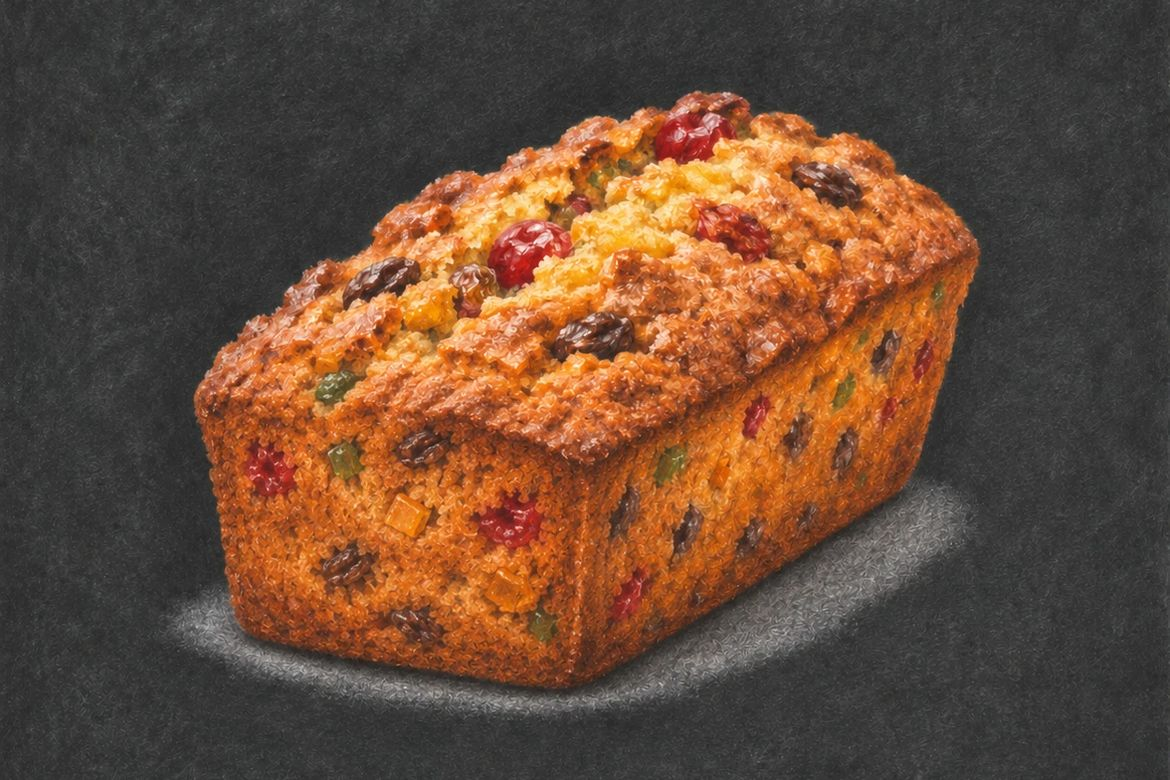
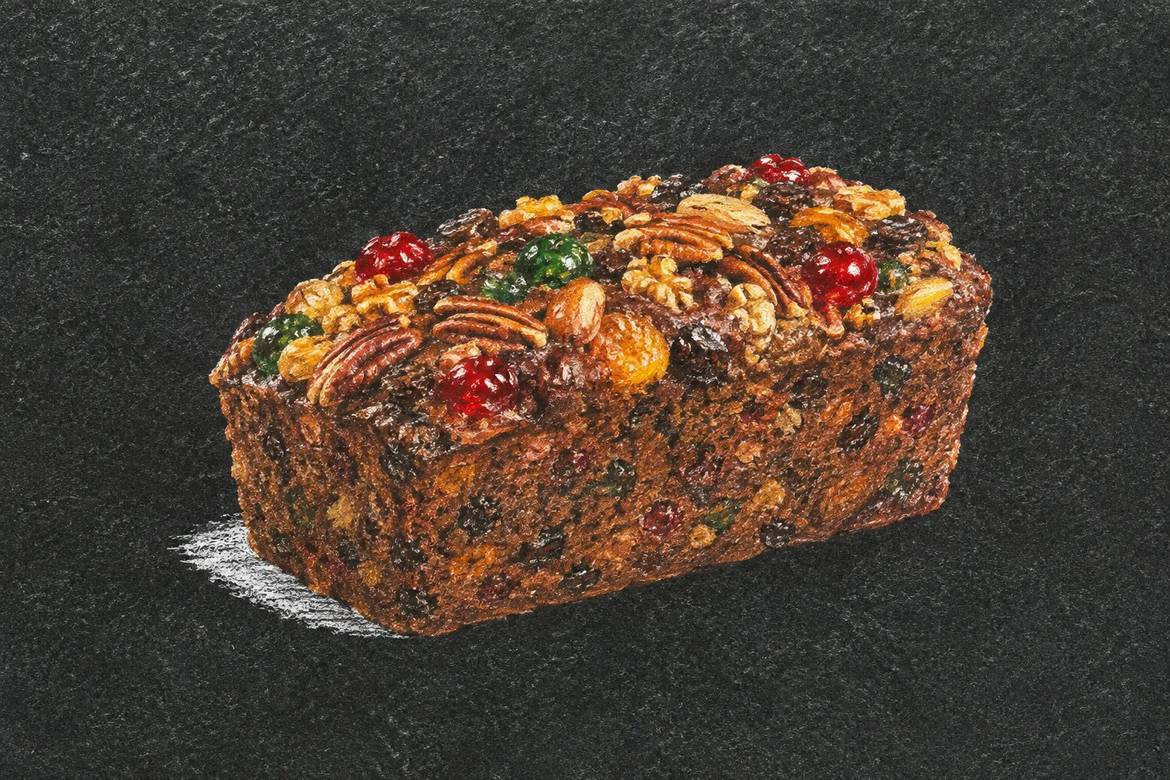
Chef's answers: first pickup date, contact email, new photo
- first_pickup_date setting: no collections before it (1 Dec), even
  when the 14-day lead time would allow earlier.
- contact_email setting: customers are told to email with questions
  instead of calling; used in the customer email and page errors.
- New temporary fruitcake photo.

Claude-Session: https://claude.ai/code/session_01RBCCUDBWDZaHzatyL5mJ5u

diff --git a/web/app.js b/web/app.js
@@ -5,8 +5,9 @@
   var CONFIG = {
     // Apps Script web app URL (Deploy > Manage deployments). Stays the same across new versions.
     API_URL: 'https://script.google.com/macros/s/AKfycbx6IzIM80uFVI_BOEOsq09xjYxFARJAM1SCMC4KeM_Jhx2OrWGX0_FhOQY1UeRMtJCZ_g/exec',
-    // TBD: shop phone number, shown if the order system cannot be reached.
+    // Shown if the order system cannot be reached (the sheet's values are used once loaded).
     SHOP_PHONE: '',
+    CONTACT_EMAIL: '', // TBD: address customers can email with questions
     REQUEST_TIMEOUT_MS: 20000
   };
 
@@ -69,6 +70,14 @@
   }
 
   function phone() { return (state.config && state.config.shop_phone) || CONFIG.SHOP_PHONE; }
+  function contactEmail() { return (state.config && state.config.contact_email) || CONFIG.CONTACT_EMAIL; }
+
+  /** ", or email us at x" / ", or call us on x" / "" */
+  function contactText() {
+    if (contactEmail()) return ', or email us at ' + contactEmail();
+    if (phone()) return ', or call us on ' + phone();
+    return '';
+  }
 
   /* ---------- Preview mode (until the Apps Script URL is set) ---------- */
 
@@ -204,12 +213,15 @@
       state.step = 0;
     }
     if (which === 'error') {
-      var p = phone();
-      document.querySelectorAll('.js-phone-sentence').forEach(function (n) { n.hidden = !p; });
-      document.querySelectorAll('.js-phone-link').forEach(function (a) {
-        a.textContent = p;
-        a.href = 'tel:' + p.replace(/[^\d+]/g, '');
-      });
+      var box = $('error-contact');
+      box.textContent = '';
+      if (contactEmail()) {
+        box.appendChild(document.createTextNode(', or email us at '));
+        box.appendChild(el('a', { href: 'mailto:' + contactEmail(), text: contactEmail() }));
+      } else if (phone()) {
+        box.appendChild(document.createTextNode(', or call us on '));
+        box.appendChild(el('a', { href: 'tel:' + phone().replace(/[^\d+]/g, ''), text: phone() }));
+      }
     }
     var h = which && $('state-' + which).querySelector('.heading');
     if (h) h.focus();
@@ -516,13 +528,13 @@
         var fid = fieldIdFor(res.field);
         if (fid) $(fid).setAttribute('aria-invalid', 'true');
       }
-      if (code === 'server_error' && phone()) msg += ' Please try again, or call us on ' + phone() + '.';
+      if (code === 'server_error' && contactText()) msg += ' Please try again' + contactText() + '.';
       showSubmitError(msg);
     }).catch(function () {
       setSubmitting(false);
       showSubmitError('We could not reach our order system, so we can’t be sure your order went through. ' +
         'Please check your email for a confirmation before trying again' +
-        (phone() ? ', or call us on ' + phone() : '') + '.');
+        contactText() + '.');
     });
   }
 

diff --git a/web/index.html b/web/index.html
@@ -9,7 +9,7 @@
   <link rel="preconnect" href="https://fonts.googleapis.com">
   <link rel="preconnect" href="https://fonts.gstatic.com" crossorigin>
   <link href="https://fonts.googleapis.com/css2?family=Josefin+Sans:wght@600&family=Poppins:wght@400;500;600&display=swap" rel="stylesheet">
-  <link rel="stylesheet" href="styles.css?v=8">
+  <link rel="stylesheet" href="styles.css?v=9">
 </head>
 <body>
   <a class="skip-link" href="#main">Skip to content</a>
@@ -38,7 +38,7 @@
 
       <section id="state-error" class="state" hidden>
         <h1 class="heading" tabindex="-1">We can’t load the order form right now</h1>
-        <p>Please try again in a few minutes<span class="js-phone-sentence">, or call the shop on <a class="js-phone-link" href="#"></a> to order</span>.</p>
+        <p>Please try again in a few minutes<span id="error-contact"></span>.</p>
         <button type="button" class="btn btn-secondary" id="retry">Try again</button>
       </section>
 
@@ -52,7 +52,7 @@
       <section id="step-1" class="step" hidden aria-labelledby="h-step-1">
         <figure class="hero">
           <!-- Temporary image; replace assets/fruitcake.jpg with the final photo (1170 x 780, 3:2). -->
-          <img src="assets/fruitcake.jpg?v=1" alt="Motherdough Rich Dark Fruitcake" width="1170" height="780" fetchpriority="high">
+          <img src="assets/fruitcake.jpg?v=2" alt="Motherdough Rich Dark Fruitcake" width="1170" height="780" fetchpriority="high">
         </figure>
 
         <h1 class="heading" id="h-step-1" tabindex="-1">Rich Dark Fruitcake</h1>
@@ -221,6 +221,6 @@
     </main>
   </div>
 
-  <script src="app.js?v=8"></script>
+  <script src="app.js?v=9"></script>
 </body>
 </html>

diff --git a/apps-script/email_customer.html b/apps-script/email_customer.html
@@ -49,10 +49,8 @@
 
   <tr><td style="padding:20px 0;border-top:1px solid #EFE7DC;">
     <p style="margin:0;">Show this email or your order number at the counter when you collect.</p>
-    <? if (d.no_reply) { ?>
-    <p style="margin:12px 0 0;color:#7A655A;">This is an automated email, please don’t reply.<? if (d.shop_phone) { ?> Questions? Call us on <?= d.shop_phone ?>.<? } ?></p>
-    <? } else if (d.reply_to || d.shop_phone) { ?>
-    <p style="margin:12px 0 0;color:#7A655A;">Questions? Reply to this email<? if (d.shop_phone) { ?> or call us on <?= d.shop_phone ?><? } ?>.</p>
+    <? if (d.contact) { ?>
+    <p style="margin:12px 0 0;color:#7A655A;"><?= d.contact ?></p>
     <? } ?>
   </td></tr>
 

diff --git a/CLAUDE.md b/CLAUDE.md
@@ -78,16 +78,16 @@ Look: matches motherdough.co.za, editorial and calm, NOT an app template. No rou
 
 All values live in the `Settings` sheet so staff can change them without code. Values shown are the design placeholders.
 
-- **Lead time:** earliest pickup = today + 14 days (Africa/Johannesburg time). Setting `lead_days` = 14.
-- **Order cut-off:** last order date 10 December (`last_order_date`, **TBD** confirm). After it, the page shows "Orders for Christmas 2026 are closed" and the API rejects orders.
-- **Last pickup date:** 24 December (`last_pickup_date`, **TBD** confirm).
-- **Daily capacity:** max cakes per pickup date (`daily_capacity`, **TBD**). Count by quantity, not by order. Optional per-date overrides in a `Capacity` tab (date, max).
-- **Closed days:** list of dates and/or weekdays (`closed_dates`, `closed_weekdays`, **TBD**).
+- **Lead time:** earliest pickup = today + 14 days (Africa/Johannesburg time), and never before `first_pickup_date` (1 Dec). Setting `lead_days` = 14.
+- **Order cut-off:** last order date 10 December (`last_order_date`, confirmed by the chef). After it, the page shows "Orders for Christmas 2026 are closed" and the API rejects orders.
+- **Last pickup date:** 24 December (`last_pickup_date`, confirmed).
+- **Daily capacity:** 20 cakes per pickup date across all stores (`daily_capacity`). Count by quantity, not by order. Optional per-date overrides in a `Capacity` tab (date, max).
+- **Closed days:** none (any day is fine); `closed_dates`, `closed_weekdays` available if needed.
 - **"Few left":** show the dot when remaining for that date is at or below `few_left_threshold` (default 3).
 - **Collection window:** 8am–4pm, from the paper order sheet (`docs/`). Stored in `slots` as one entry.
 - **Stores:** Franschhoek (FHK), Jonkershoek (JHK), Stellenbosch (STB) (`stores_json`; **TBD**: addresses). Capacity is shared across all stores (**TBD**: confirm, or make it per store).
-- **Product:** Rich Dark Fruitcake 700g (`product_name`). Price `product_price` is **TBD**; while blank, no price or total is shown anywhere.
-- **Quantity:** 1 to `max_quantity` (default 5).
+- **Product:** Rich Dark Fruitcake 700g (`product_name`). Price `product_price` is a temporary R350 (**TBD**: final price); while blank, no price or total is shown anywhere.
+- **Quantity:** 1 to `max_quantity` (20, same as the daily limit).
 - **Total is always calculated by the script**, never trusted from the page.
 
 ---
@@ -136,7 +136,7 @@ Deploy as a versioned deployment ("Execute as: Me", "Who has access: Anyone"). U
 HTML templates in `/apps-script` with a plain-text fallback, same colours and tone as the page.
 
 - **Customer:** subject "Your Motherdough fruitcake order MD-0412". Includes the order number, pickup date and slot, store address, full order, total, "show this email or your order number at the counter", and a contact line. Sent as no-reply while `no_reply` = yes (Google Workspace `noReply` option); otherwise reply-to = `reply_to` setting.
-- **Baker:** subject "New fruitcake order MD-0412, pickup Sat 19 Dec". Full order, customer name and cell, notes, total. Recipients = `baker_emails` (**TBD**). Includes the full order so the inbox doubles as a backup.
+- **Baker:** subject "New fruitcake order MD-0412, pickup Sat 19 Dec". Full order, customer name and cell, notes, total. Recipients = `baker_emails`. **TBD before launch:** change from marco@ to lianti@motherdough.co.za (and add her to `staff_emails`). Includes the full order so the inbox doubles as a backup.
 - **Later (optional):** reminder email the day before pickup via a daily time-driven trigger.
 
 Gmail limits: about 1,500 recipients a day on Google Workspace, about 100 on free Gmail. Use a Workspace account.
@@ -145,7 +145,7 @@ Gmail limits: about 1,500 recipients a day on Google Workspace, about 100 on fre
 
 ## Page behaviour details
 
-- Show a loading state while fetching config. If the API fails, show a friendly message with the shop phone number (**TBD**).
+- Step 1 shows immediately; config loads in the background. If the API fails, show a friendly message with `contact_email` (**TBD**; no shop phone is given to customers).
 - Disable the PLACE ORDER button and show "Placing your order…" while submitting. Apps Script can take 1–3 seconds.
 - Keep the selections in memory while moving between steps; if a chosen date becomes full on submit, return to step 2 with a message.
 - Hidden honeypot input on step 3.
